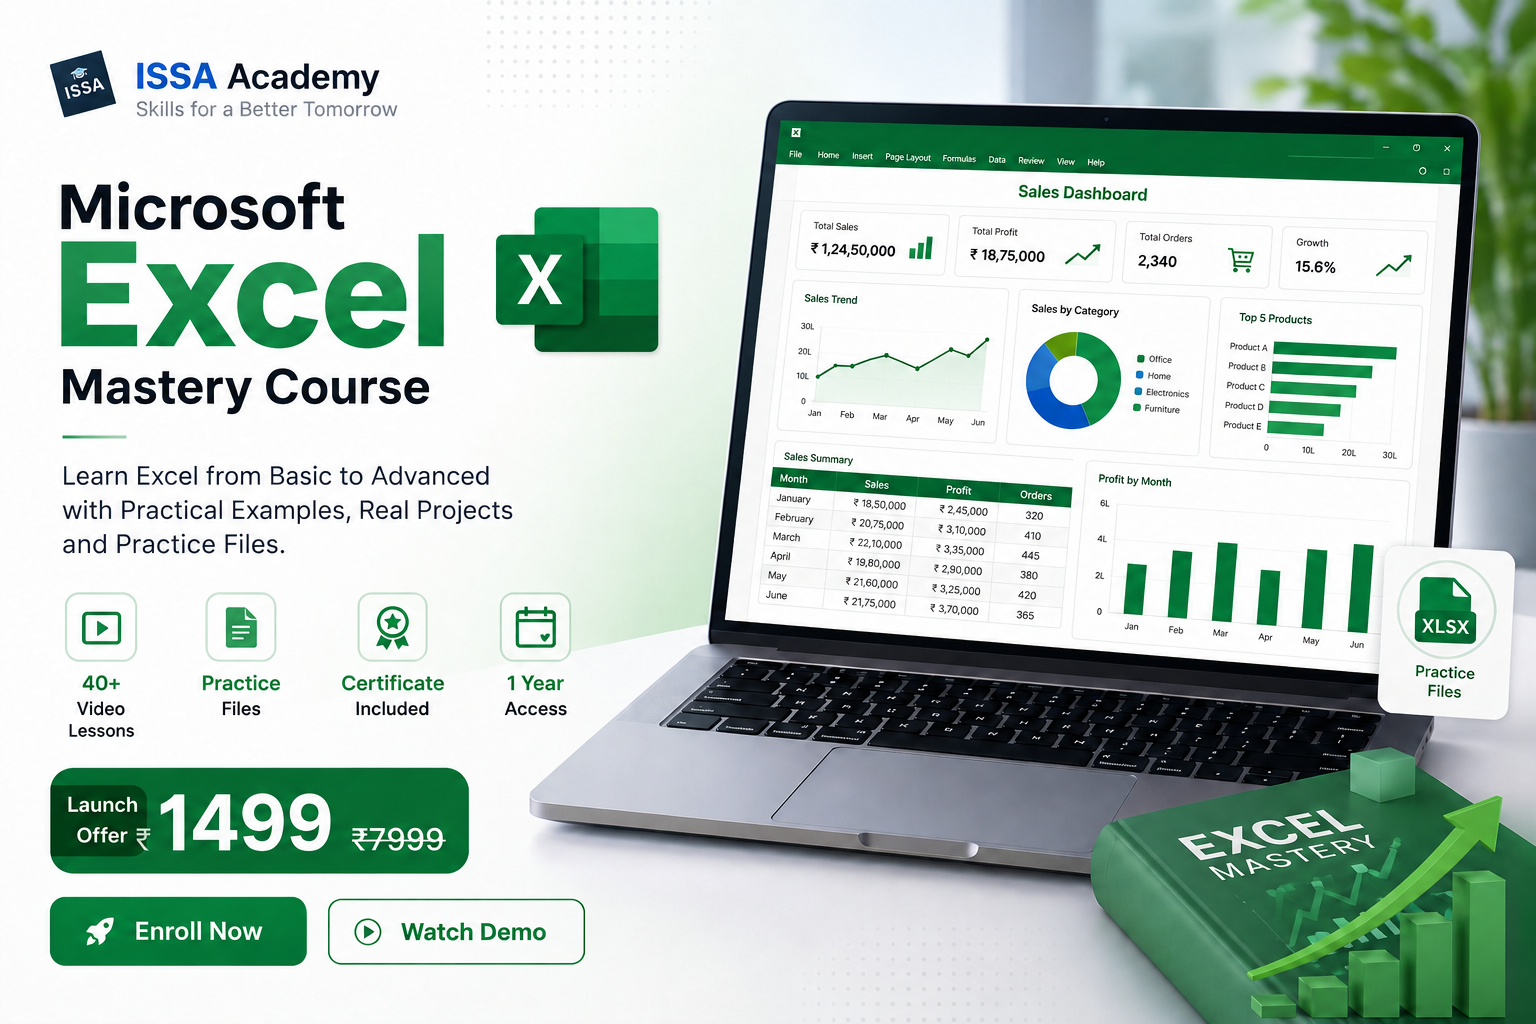
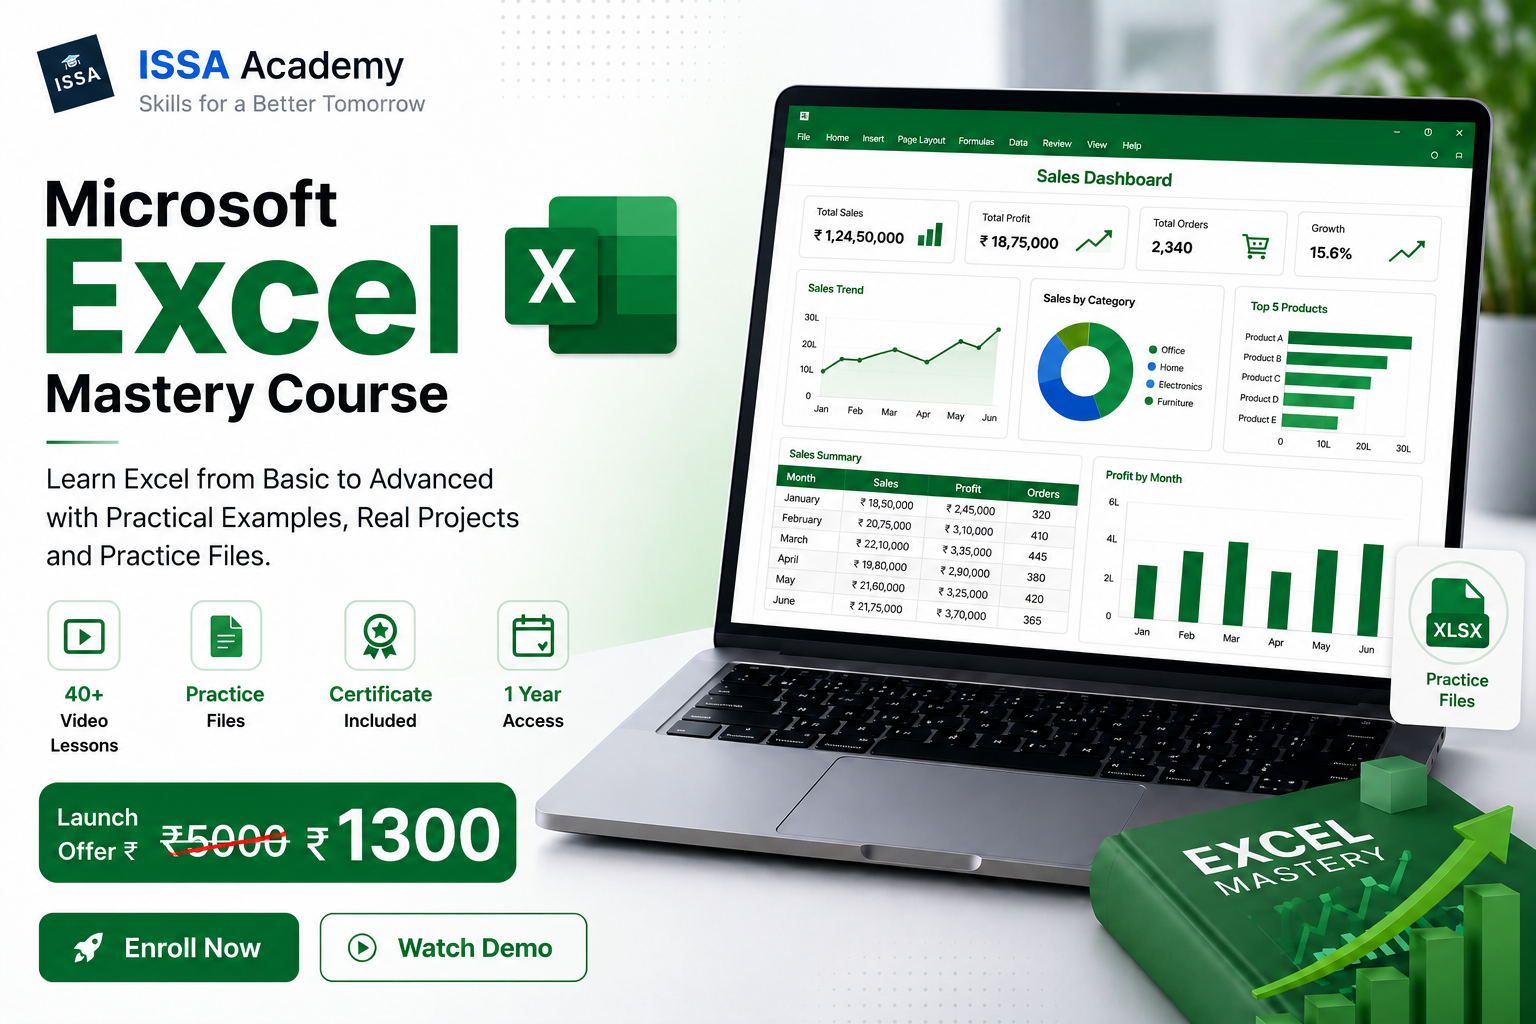
Protect video access with session authentication

diff --git a/academy/assets/js/student/dashboard.js b/academy/assets/js/student/dashboard.js
@@ -187,6 +187,24 @@ async function loadEnrollments(uid) {
                 const enrollmentProgress =
                     Number(enrollment.progress) || 0;
 
+/* -------------------------------------------------------
+   LOAD MODULES & LESSONS FOR THIS COURSE
+------------------------------------------------------- */
+const [moduleSnapshot, lessonSnapshot] = await Promise.all([
+    getDocs(query(collection(db, "modules"), where("courseId", "==", enrollment.courseId))),
+    getDocs(query(collection(db, "lessons"), where("courseId", "==", enrollment.courseId)))
+]);
+
+/* -------------------------------------------------------
+   COURSE OBJECT
+------------------------------------------------------- */
+const course = {
+    id: enrollment.courseId,
+    ...courseSnap.data(),
+    totalModules: moduleSnapshot.size, // ✅ Added module count
+    totalLessons: lessonSnapshot.size
+};
+
                 /* -------------------------------------------------------
                    QUERY COMPLETED LESSONS FROM LESSONPROGRESS
                 ------------------------------------------------------- */
@@ -338,41 +356,42 @@ async function loadEnrollments(uid) {
    ========================================================================== */
 
 async function loadCourseCatalog() {
-
     try {
-
         const snapshot = await getDocs(collection(db, "courses"));
 
         if (snapshot.empty) {
-
             emptyCourses?.classList.remove("hidden");
             return;
-
         }
 
-        const cards = snapshot.docs.map(courseDoc => {
+        const cardsPromises = snapshot.docs.map(async (courseDoc) => {
+            const courseId = courseDoc.id;
+
+            // Fetch lesson and module counts for catalog cards
+            const [moduleSnapshot, lessonSnapshot] = await Promise.all([
+                getDocs(query(collection(db, "modules"), where("courseId", "==", courseId))),
+                getDocs(query(collection(db, "lessons"), where("courseId", "==", courseId)))
+            ]);
 
             const course = {
-                id: courseDoc.id,
-                ...courseDoc.data()
+                id: courseId,
+                ...courseDoc.data(),
+                totalModules: moduleSnapshot.size,
+                totalLessons: lessonSnapshot.size
             };
 
             return createCourseCard(course, {
                 mode: "student"
             });
-
         });
 
+        const cards = await Promise.all(cardsPromises);
         coursesGrid.innerHTML = cards.join("");
 
     } catch (error) {
-
         console.error("Unable to load course catalog:", error);
-
         emptyCourses?.classList.remove("hidden");
-
     }
-
 }
 
 /* ==========================================================================

diff --git a/academy/excel.html b/academy/excel.html
@@ -53,7 +53,7 @@
             <div class="price-box">
                 <div class="offer">₹1300</div>
                 <div class="regular">₹5000</div>
-                <div class="discount">80% OFF</div>
+                <div class="discount">74% OFF</div>
             </div>
 
             <div class="hero-buttons">
